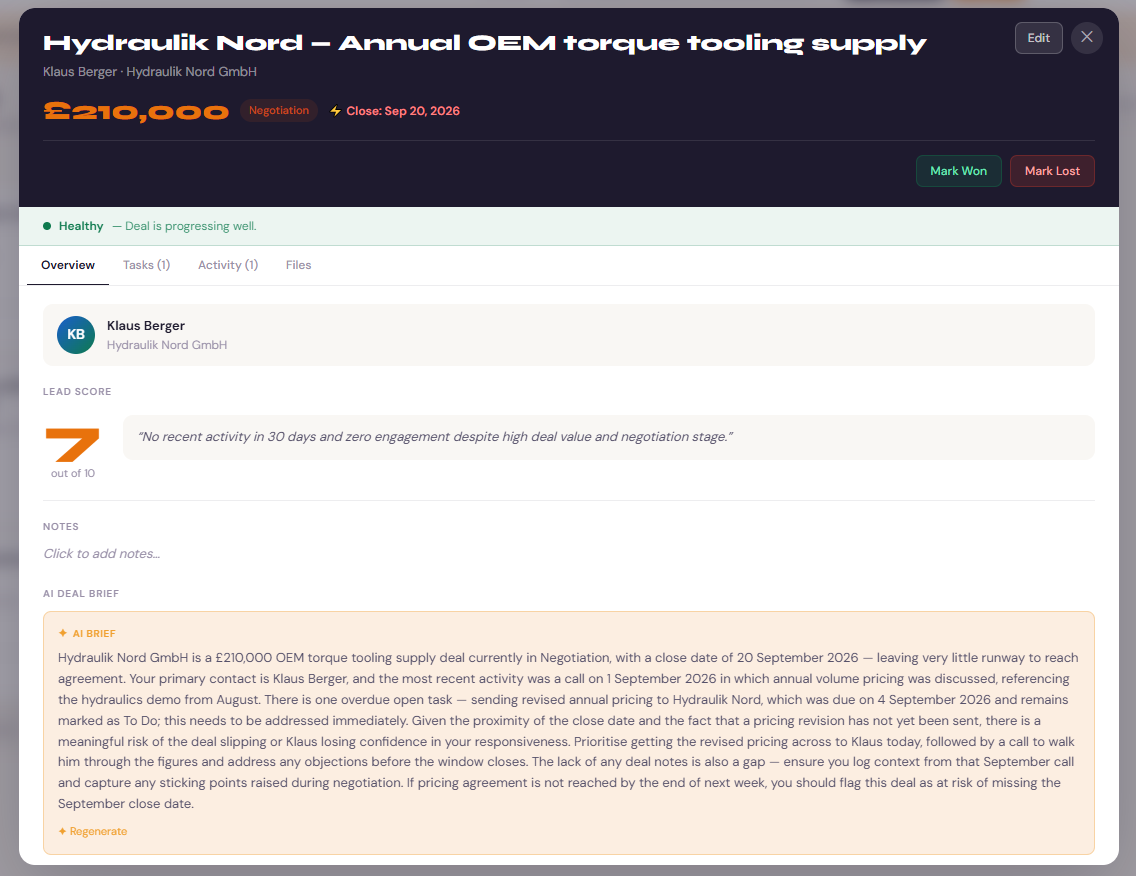
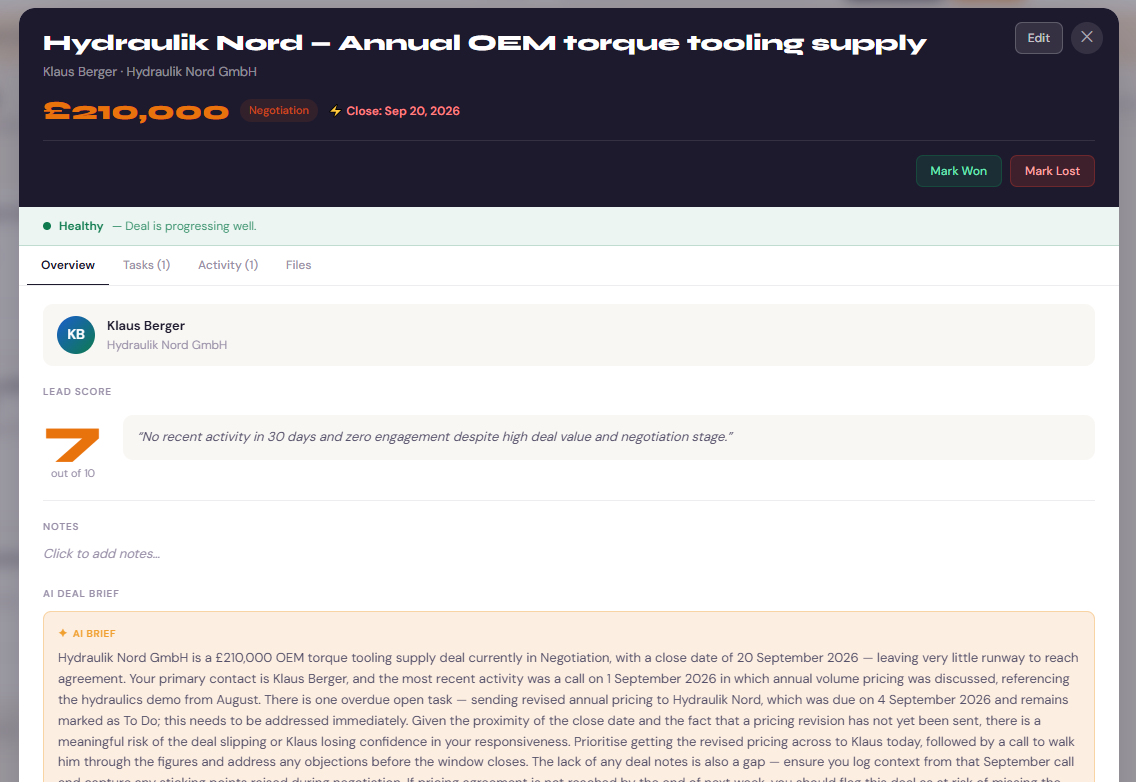
Homepage showcase: crop screenshots to the key UI (Kanban board, stats, AI brief)
Full-app shots shrank the meaningful content to nothing. Cropped each to just the
part that matters — the Deals Kanban board, the Reports stat-cards + stage bars,
and the deal's AI brief + lead score — via a dependency-free Node PNG cropper
(built-in zlib, adaptive filtering keeps files small). Now they read clearly at
the enlarged showcase size. Dimensions updated to the crops.

diff --git a/index.html b/index.html
@@ -651,7 +651,7 @@ footer{background:var(--navy);border-top:1px solid rgba(255,255,255,0.06);paddin
     <p class="section-body">No demo call required — here's what you'd actually be working in every day.</p>
     <div class="showcase">
       <div class="showcase-row">
-        <div class="showcase-media"><img src="/img/foxlink-pipeline.png" width="1913" height="944" loading="lazy" alt="FoxLink sales pipeline — deals across Enquiry, Qualified, Quoted and Negotiation with values and lead scores"></div>
+        <div class="showcase-media"><img src="/img/foxlink-pipeline.png" width="1112" height="598" loading="lazy" alt="FoxLink sales pipeline — deals across Enquiry, Qualified, Quoted and Negotiation with values and lead scores"></div>
         <div class="showcase-text">
           <div class="showcase-tag">Deals</div>
           <h3 class="showcase-title">Your whole pipeline on one board</h3>
@@ -659,7 +659,7 @@ footer{background:var(--navy);border-top:1px solid rgba(255,255,255,0.06);paddin
         </div>
       </div>
       <div class="showcase-row">
-        <div class="showcase-media"><img src="/img/foxlink-deal-brief.png" width="1136" height="876" loading="lazy" alt="A FoxLink deal with an AI-written brief, lead score and reasoning, tasks and activity"></div>
+        <div class="showcase-media"><img src="/img/foxlink-deal-brief.png" width="1136" height="782" loading="lazy" alt="A FoxLink deal with an AI-written brief, lead score and reasoning, tasks and activity"></div>
         <div class="showcase-text">
           <div class="showcase-tag">AI built in</div>
           <h3 class="showcase-title">Every deal, briefed by AI</h3>
@@ -667,7 +667,7 @@ footer{background:var(--navy);border-top:1px solid rgba(255,255,255,0.06);paddin
         </div>
       </div>
       <div class="showcase-row">
-        <div class="showcase-media"><img src="/img/foxlink-reports.png" width="1906" height="945" loading="lazy" alt="FoxLink pipeline report — total and weighted pipeline value, average deal value and a stage breakdown"></div>
+        <div class="showcase-media"><img src="/img/foxlink-reports.png" width="970" height="430" loading="lazy" alt="FoxLink pipeline report — total and weighted pipeline value, average deal value and a stage breakdown"></div>
         <div class="showcase-text">
           <div class="showcase-tag">Reports</div>
           <h3 class="showcase-title">Know exactly where you stand</h3>
